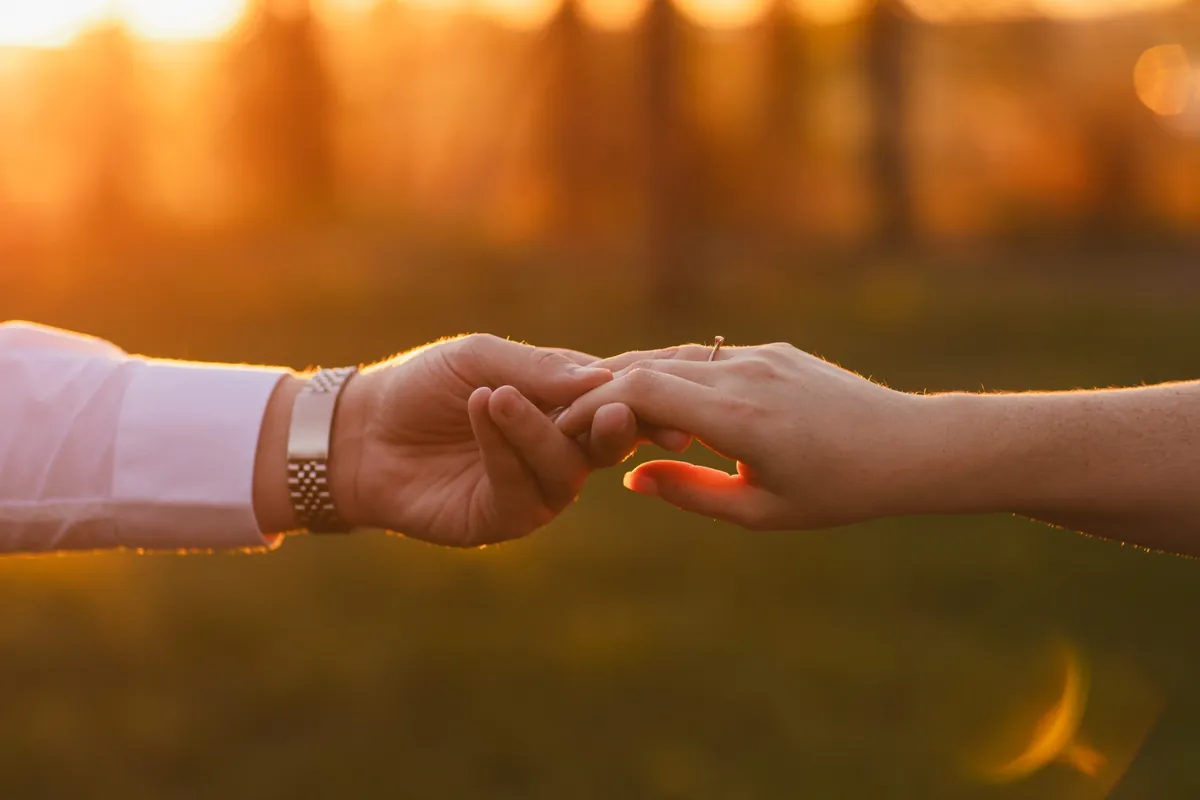
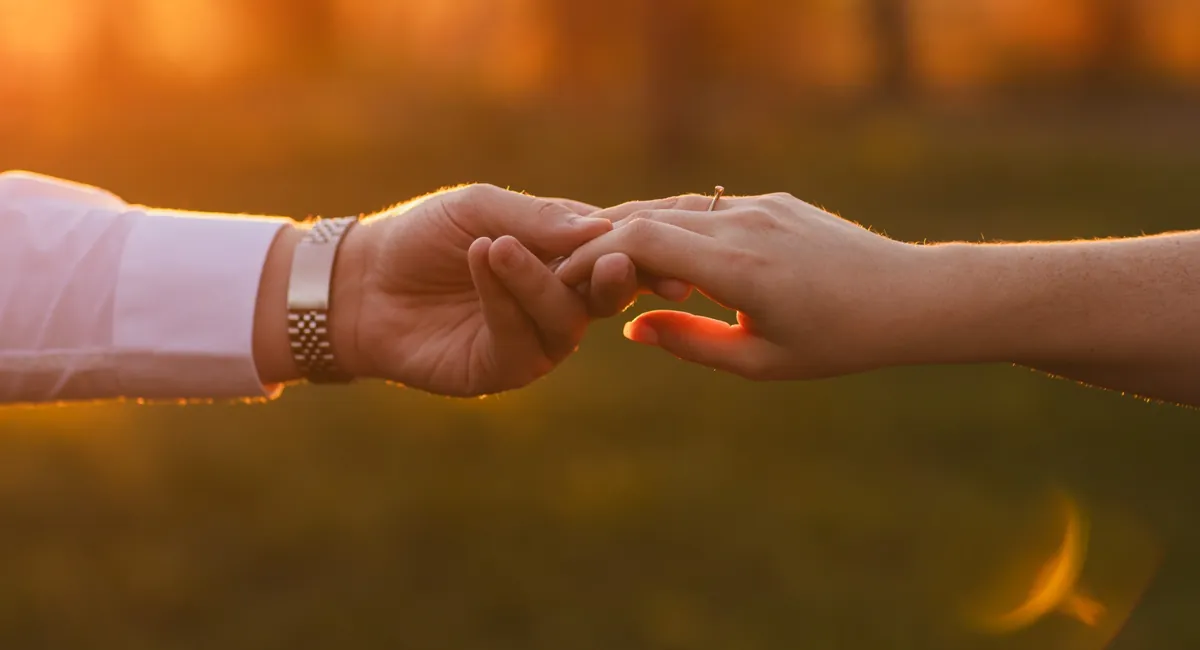
Contagem regressiva dentro do convite e degradê da foto mais suave
Remove a seção de detalhes abaixo do convite (repetia data e nomes).
Texto do cartão se ajusta à altura disponível, com tamanho mínimo
legível para as legendas.

Claude-Session: https://claude.ai/code/session_01HQnsedFrCE2k1dym4LLfJX

diff --git a/css/style.css b/css/style.css
@@ -301,7 +301,7 @@ body {
   box-shadow:
     0 1px 2px rgba(60, 42, 20, .14),
     0 12px 30px -10px rgba(60, 42, 20, .3);
-  font-size: calc(var(--cw) / 24);
+  font-size: calc(var(--cw) / 24 * var(--fit, 1));
   overflow: hidden;
   --banner-h: 0px;
 }
@@ -313,10 +313,13 @@ body {
   top: 0;
   left: 0;
   right: 0;
-  height: var(--banner-h);
-  background: url("../assets/maos.webp") 50% 58% / cover no-repeat;
-  -webkit-mask-image: linear-gradient(#000 78%, transparent);
-  mask-image: linear-gradient(#000 78%, transparent);
+  /* passa um pouco da moldura para o degradê terminar bem suave, atrás do texto de abertura */
+  height: calc(var(--banner-h) * 1.2);
+  background: url("../assets/maos.webp") 50% 40% / cover no-repeat;
+  --fade: linear-gradient(#000 0%, #000 58%, rgba(0, 0, 0, .9) 65%, rgba(0, 0, 0, .72) 72%,
+    rgba(0, 0, 0, .5) 79%, rgba(0, 0, 0, .3) 86%, rgba(0, 0, 0, .14) 92%, rgba(0, 0, 0, .04) 97%, transparent);
+  -webkit-mask-image: var(--fade);
+  mask-image: var(--fade);
 }
 
 /* Data por extenso, em três linhas (versão floral) */
@@ -334,7 +337,7 @@ body {
 }
 
 .card__when-day {
-  font-size: .8em;
+  font-size: max(.8em, 10px);
   letter-spacing: .32em;
   text-transform: uppercase;
 }
@@ -370,7 +373,7 @@ body {
   border: 1px solid rgba(168, 141, 98, .55);
   outline: 1px solid rgba(168, 141, 98, .35);
   outline-offset: calc(var(--cw) * -.016);
-  padding: 8% 7%;
+  padding: 9% 7% 8%;
 }
 
 /* cartão alto (celular): distribui os blocos na altura */
@@ -455,6 +458,47 @@ body {
   color: var(--ink);
 }
 
+.card__countdown {
+  margin-top: 1.3em;
+  width: 100%;
+}
+
+.card__countdown-label {
+  margin: 0 0 .45em;
+  font-size: max(.72em, 9px);
+  letter-spacing: .34em;
+  text-transform: uppercase;
+  color: var(--ink-soft);
+}
+
+.card__countdown-row {
+  display: grid;
+  grid-template-columns: repeat(4, minmax(0, 1fr));
+  gap: .5em;
+}
+
+.card__countdown-row div {
+  display: flex;
+  flex-direction: column;
+  align-items: center;
+  gap: .15em;
+}
+
+.card__countdown-row strong {
+  font-size: 1.45em;
+  font-weight: 500;
+  line-height: 1;
+  font-variant-numeric: tabular-nums lining-nums;
+  color: var(--ink);
+}
+
+.card__countdown-row span {
+  font-size: max(.62em, 9px);
+  letter-spacing: .2em;
+  text-transform: uppercase;
+  color: var(--ink-soft);
+}
+
 .card__info {
   margin-top: 1.3em;
   display: flex;
@@ -490,7 +534,7 @@ body {
   padding: .7em 1.8em;
   border: 1px solid var(--gold);
   border-radius: 999px;
-  font-size: .78em;
+  font-size: max(.78em, 10px);
   letter-spacing: .24em;
   text-transform: uppercase;
   text-decoration: none;
@@ -511,78 +555,6 @@ body {
 }
 
 .card__rsvp { margin-top: .9em; }
-
-/* ---------- Detalhes ---------- */
-
-.details {
-  position: relative;
-  min-height: 100vh;
-  min-height: 100svh;
-  display: flex;
-  flex-direction: column;
-  align-items: center;
-  justify-content: center;
-  padding: 72px 16px;
-  text-align: center;
-}
-
-.details__eyebrow {
-  margin: 0 0 14px;
-  font-size: 15px;
-  letter-spacing: .34em;
-  text-transform: uppercase;
-  color: var(--ink-soft);
-}
-
-.countdown {
-  display: grid;
-  grid-template-columns: repeat(4, minmax(0, 1fr));
-  gap: clamp(8px, 3vw, 28px);
-  width: min(100%, 520px);
-}
-
-.countdown div {
-  display: flex;
-  flex-direction: column;
-  align-items: center;
-  padding: 14px 4px 12px;
-  border-top: 1px solid rgba(168, 141, 98, .55);
-  border-bottom: 1px solid rgba(168, 141, 98, .55);
-}
-
-.countdown strong {
-  font-size: clamp(30px, 9vw, 52px);
-  font-weight: 500;
-  line-height: 1;
-  font-variant-numeric: tabular-nums;
-}
-
-.countdown span {
-  margin-top: 6px;
-  font-size: 13px;
-  letter-spacing: .22em;
-  text-transform: uppercase;
-  color: var(--ink-soft);
-}
-
-.details__date {
-  margin: 34px 0 0;
-  font-size: clamp(19px, 4.6vw, 24px);
-  font-style: italic;
-}
-
-.details__place {
-  margin: 8px 0 0;
-  font-size: clamp(17px, 4vw, 21px);
-  color: var(--ink-soft);
-}
-
-.details__sign {
-  margin: 48px 0 0;
-  font-family: "Pinyon Script", cursive;
-  font-size: clamp(38px, 10vw, 58px);
-  color: var(--ink);
-}
 
 /* ---------- Movimento reduzido: mostra o convite já aberto ---------- */
 

diff --git a/js/main.js b/js/main.js
@@ -61,9 +61,9 @@
     const H = W * 16 / 9;
     // Proporção do cartão acompanha a tela: mais alto no celular (cabe no envelope até 1,95).
     // O floral tem foto no topo, então nunca fica mais baixo que 1,75.
-    const minRatio = root.dataset.variant === 'floral' ? 1.75 : 1.4;
-    const cardRatio = clamp((vh * 0.88) / (vw * 0.92), minRatio, 1.95);
-    const cwF = Math.round(Math.min(vw * 0.92, (vh * 0.88) / cardRatio, 540));
+    const minRatio = root.dataset.variant === 'floral' ? 1.75 : 1.5;
+    const cardRatio = clamp((vh * 0.9) / (vw * 0.92), minRatio, 1.95);
+    const cwF = Math.round(Math.min(vw * 0.92, (vh * 0.9) / cardRatio, 540));
 
     root.style.setProperty('--W', W + 'px');
     root.style.setProperty('--cw', cwF + 'px');
@@ -82,12 +82,40 @@
     // Envelope (com a aba aberta) sai inteiro por baixo da tela
     const ty3 = vh / 2 + H * s1 * (0.5 + FLAP_H) + vh * 0.04;
 
+    fitCard();
+
     L = {
       vw, vh, W, H, cwF, chA, s1, ty1, ty2, ty3,
       kAtt: cwA / cwF,
       cy0: cardTopRest + chA / 2 - H / 2,
       rise: cardTopRest + chA + gap,
     };
+  }
+
+  // Telas baixas: reduz o texto do cartão até caber na moldura (mínimo 70%)
+  function fitCard() {
+    const inner = card.querySelector('.card__inner');
+    const cs = getComputedStyle(inner);
+    const avail = inner.clientHeight - parseFloat(cs.paddingTop) - parseFloat(cs.paddingBottom);
+    let k = 1;
+    for (let i = 0; i < 5; i++) {
+      card.style.setProperty('--fit', k.toFixed(3));
+      // retângulos incluem a escala do cartão; divide por ela para voltar a px de layout
+      const scale = inner.getBoundingClientRect().height / inner.offsetHeight || 1;
+      let top = Infinity;
+      let bottom = -Infinity;
+      for (const el of inner.children) {
+        const r = el.getBoundingClientRect();
+        if (!r.height) continue;
+        const m = getComputedStyle(el);
+        top = Math.min(top, r.top / scale - parseFloat(m.marginTop));
+        bottom = Math.max(bottom, r.bottom / scale + parseFloat(m.marginBottom));
+      }
+      const need = bottom - top;
+      if (!Number.isFinite(need) || need <= avail) break;
+      k = Math.max(0.7, k * (avail / need) * 0.98);
+      if (k === 0.7) { card.style.setProperty('--fit', k); break; }
+    }
   }
 
   function render(p) {
@@ -191,7 +219,6 @@
     show('cardAddress', INFO.endereco);
     show('cardDress', INFO.traje);
     show('cardRsvp', INFO.confirmacao);
-    show('detailsPlace', [INFO.local, INFO.endereco].filter(Boolean).join(' · '));
     $('giftLink').href = INFO.listaPresentes;
   }
 
@@ -221,6 +248,7 @@
   startCountdown();
   onResize();
   window.addEventListener('hashchange', () => { setVariant(); onResize(); });
+  document.fonts?.ready.then(onResize);
   window.addEventListener('scroll', onScroll, { passive: true });
   openBtn.addEventListener('click', openEnvelope);
   for (const ev of ['wheel', 'touchstart', 'pointerdown', 'keydown']) {

diff --git a/index.html b/index.html
@@ -64,6 +64,16 @@
                 <span class="card__when-time">às 18 horas</span>
               </p>
 
+              <div class="card__countdown" id="countdown" data-date="2027-02-20T18:00:00-03:00">
+                <p class="card__countdown-label">Faltam</p>
+                <div class="card__countdown-row">
+                  <div><strong data-unit="d">—</strong><span>dias</span></div>
+                  <div><strong data-unit="h">—</strong><span>horas</span></div>
+                  <div><strong data-unit="m">—</strong><span>min</span></div>
+                  <div><strong data-unit="s">—</strong><span>seg</span></div>
+                </div>
+              </div>
+
               <div class="card__info">
                 <p class="card__place" id="cardPlace" hidden></p>
                 <p class="card__address" id="cardAddress" hidden></p>
@@ -83,19 +93,6 @@
 
         <div class="hint" id="hint" aria-hidden="true"><span>Toque ou role para abrir</span><i></i></div>
       </div>
-    </section>
-
-    <section class="details" id="detalhes">
-      <p class="details__eyebrow">Faltam</p>
-      <div class="countdown" id="countdown" data-date="2027-02-20T18:00:00-03:00">
-        <div><strong data-unit="d">—</strong><span>dias</span></div>
-        <div><strong data-unit="h">—</strong><span>horas</span></div>
-        <div><strong data-unit="m">—</strong><span>min</span></div>
-        <div><strong data-unit="s">—</strong><span>seg</span></div>
-      </div>
-      <p class="details__date">Sábado, 20 de fevereiro de 2027 · 18h</p>
-      <p class="details__place" id="detailsPlace" hidden></p>
-      <p class="details__sign">Marcio &amp; Magali</p>
     </section>
   </main>
 

diff --git a/README.md b/README.md
@@ -1,6 +1,6 @@
 # Convite — Marcio & Magali
 
-Página estática. Ao rolar (ou tocar no envelope), a aba abre, o envelope desce e o convite sobe para o centro da tela.
+Página estática. Ao rolar (ou tocar no envelope), a aba abre, o envelope desce e o convite sobe para o centro da tela. O convite traz data, contagem regressiva e o botão da lista de presentes; o texto se ajusta sozinho em telas baixas.
 
 Duas versões do envelope no mesmo código:
 - `index.html` — floral com selo de cera.
@@ -13,6 +13,7 @@ Duas versões do envelope no mesmo código:
 - `assets/envelope-sem-selo.webp` — a mesma foto sem o selo (editada com Nano Banana Pro), usada no envelope.
 - `assets/selo.webp` — selo recortado da foto original, preso à aba.
 - `assets/envelope-renda.webp` e `assets/aba-renda.webp` — versão renda: envelope com o papel limpo sob a aba e a aba recortada (renda + pérola) com transparência. Gerados a partir de uma edição feita com Nano Banana Pro.
+- `assets/maos.webp` — foto do topo do convite (versão floral).
 - `fonts/` — Cormorant Garamond e Pinyon Script (SIL OFL 1.1).
 
 Para ver localmente: `python3 -m http.server` e abrir `http://localhost:8000`.
